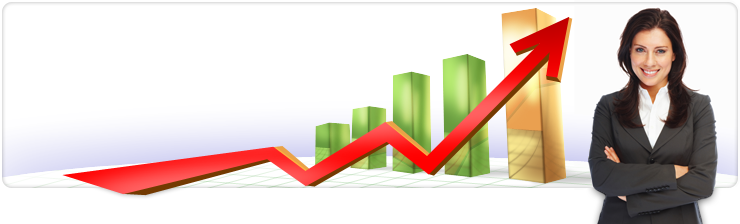
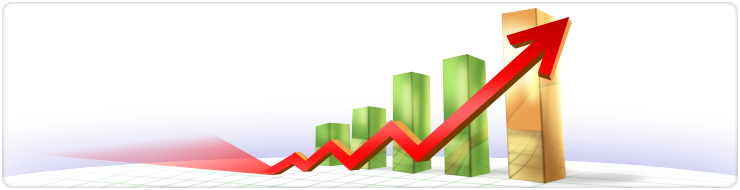
add facility oage

diff --git a/public/stylesheets/themes/storagelocator/style.css b/public/stylesheets/themes/storagelocator/style.css
@@ -145,7 +145,6 @@ input#narrow{border:1px solid #ccc;border-radius:8px;-moz-border-radius:8px;-web
 .rslt-head-txt > p{float:left;font-weight:bold;margin:6px 0;}
 .rslt-head-txt .pagination{margin:5px 0;}
 .rslt-head-txt > p span{color:#333;}
-#type-one-r-col-in h2{font-weight:normal;}
 .green-head{width:742px;margin:15px 0;float:left;position:relative;left:15px;}
 /* This is where you would insert your images for the header on each page You would need to define a new header id for each page though */
 #tips-head{background:#000;position:relative;overflow:hidden;width:740px;}
@@ -167,6 +166,7 @@ input#narrow{border:1px solid #ccc;border-radius:8px;-moz-border-radius:8px;-web
 #tips-head #bub3{width:456px;height:188px;bottom:0;right:0;background:url(/images/ui/storagelocator/tips-hdr-img-bubble3.png) no-repeat;}
 #info-head{background:url(/images/ui/storagelocator/info-hdr-img.png) no-repeat;}
 #add-fac-head{background:url(/images/ui/storagelocator/add-hdr-img.png) no-repeat;height:225px;}
+#add-fac-head a.try-free{background:url("/images/ui/storagelocator/try-free.png") no-repeat;color:#fff;display:block;font-size:18px;height:38px;margin:22px;padding:16px 0 0;text-align:center;text-shadow:1px 1px 0 #333;width:181px;}
 #rslt-head{background:url(/images/ui/storagelocator/rslt-hdr-img.png) no-repeat}
 .green-head .inner,#tips-head-in{padding:25px 30px;float:left;}
 /* End the header images for each page */
@@ -298,7 +298,7 @@ li.map-plus{background:url(/images/ui/storagelocator/plus-sign-bg.png) no-repeat
 li.map-plus a{width:22px;}
 /* End the results page styles here */
 #pages_controller.admin #column_5{float:left;}
-#add-fac-head-in{float:left;min-width:250px;padding:20px;}
+#add-fac-head-in{background:url("/images/ui/storagelocator/add-hdr-img-girl.png") no-repeat 575px 15px;float:left;height:100%;padding:15px 20px;width:100%;}
 #type-two-top-bar-head ul{height:26px;line-height:26px;color:#555;position:relative;top:-2px;font-size:80%;}
 #type-two-top-bar-head ul li#sort{position:relative;left:30px;width:253px;}
 #type-two-top-bar-head ul li#sort a{margin:0px 3px;color:#393;font-size:100%;}
@@ -306,7 +306,7 @@ li.map-plus a{width:22px;}
 #type-two-top-bar-head ul li#search a{background:url(/images/ui/storagelocator/go-button.png) no-repeat center left;width:45px;height:26px;top:-1px;display:block;float:left;text-align:center;color:#fff;text-decoration:none;font-weight:bold;text-shadow:1px 1px 2px #000;position:relative;left:-20px;font-size:100%;line-height:1.9;}
 #type-two-top-bar-head ul input{height:19px;border-radius:6px;-moz-border-radius:6px;-webkit-border-radius:6px;border:1px solid #ccc;width:120px;color:#777;font-size:1em;padding:2px 26px 1px 4px;position:relative;float:left;}
 #type-two-top-bar-head ul a.search-options{float:right;background:url(/images/ui/storagelocator/option-list-tall.png) no-repeat center right;text-align:left;width:130px;display:block;color:#666;text-decoration:none;position:relative;left:30px;font-size:100%;}
-div.green-head div.inner h2{font-weight:bold;margin-bottom:7px;font-size:220%;left:20px;}
+div.green-head div.inner h2{font-size:28px;font-weight:bold;left:20px;line-height:36px;width:470px;}
 .green-head .inner p{font-size:12px;left:20px;color:#666;position:relative;left:20px;width:240px;line-height:1.2;}
 .sub-head-txt{color:#fff;font-size:100%;font-weight:bold;text-shadow:1px 1px 0px #333;position:relative;left:20px;top:-3px;padding-bottom:10px;}
 #city-box{width:197px;color:#555;text-align:center;margin-bottom:20px;}
@@ -426,7 +426,7 @@ ul#specials_list {margin:15px 10px;}
 #city-box ul{text-align:left;position:relative;left:5px;}
 #city-box ul li a span{float:right;color:#3333CB;position:relative;right:10px;}
 /* Changes made to the existing media box */
-#media-box{width:167px;background:url(/images/ui/storagelocator/media-header.png) no-repeat center 1px;position:relative;background-color:#fff;border:1px solid #ccc;border-radius:10px;-moz-border-radius:10px;-webkit-border-radius:10px;}
+#media-box{width:167px;background:url(/images/ui/storagelocator/media-header.png) no-repeat center 1px;position:relative;background-color:#fff;}
 /* Here are a couple of changes to the footer elements inorder to shift them up the page when the new admin bar is added. */
 #foot-box-bottom-bg{background:url(/images/ui/storagelocator/footer-box-bottom-bg.png) repeat-x top left;height:31px;clear:both;position:relative;top:-15px;}
 #foot-box-ctr{background:url(/images/ui/storagelocator/footer-box-bg.png) repeat-x top left;background-color:#DCDCDC;position:relative;top:-15px;}
